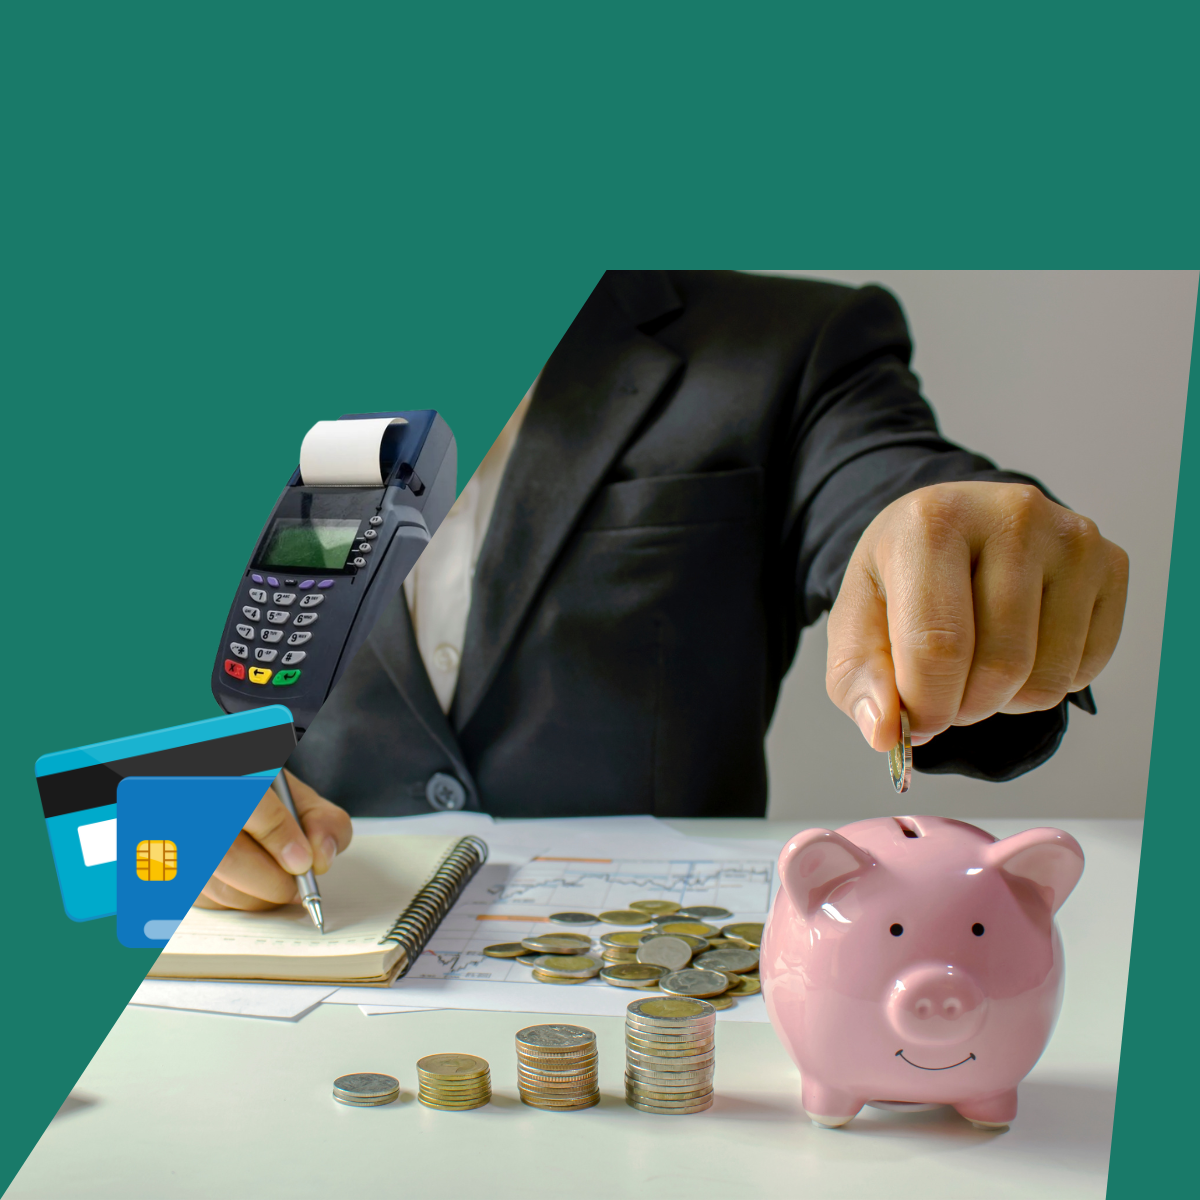
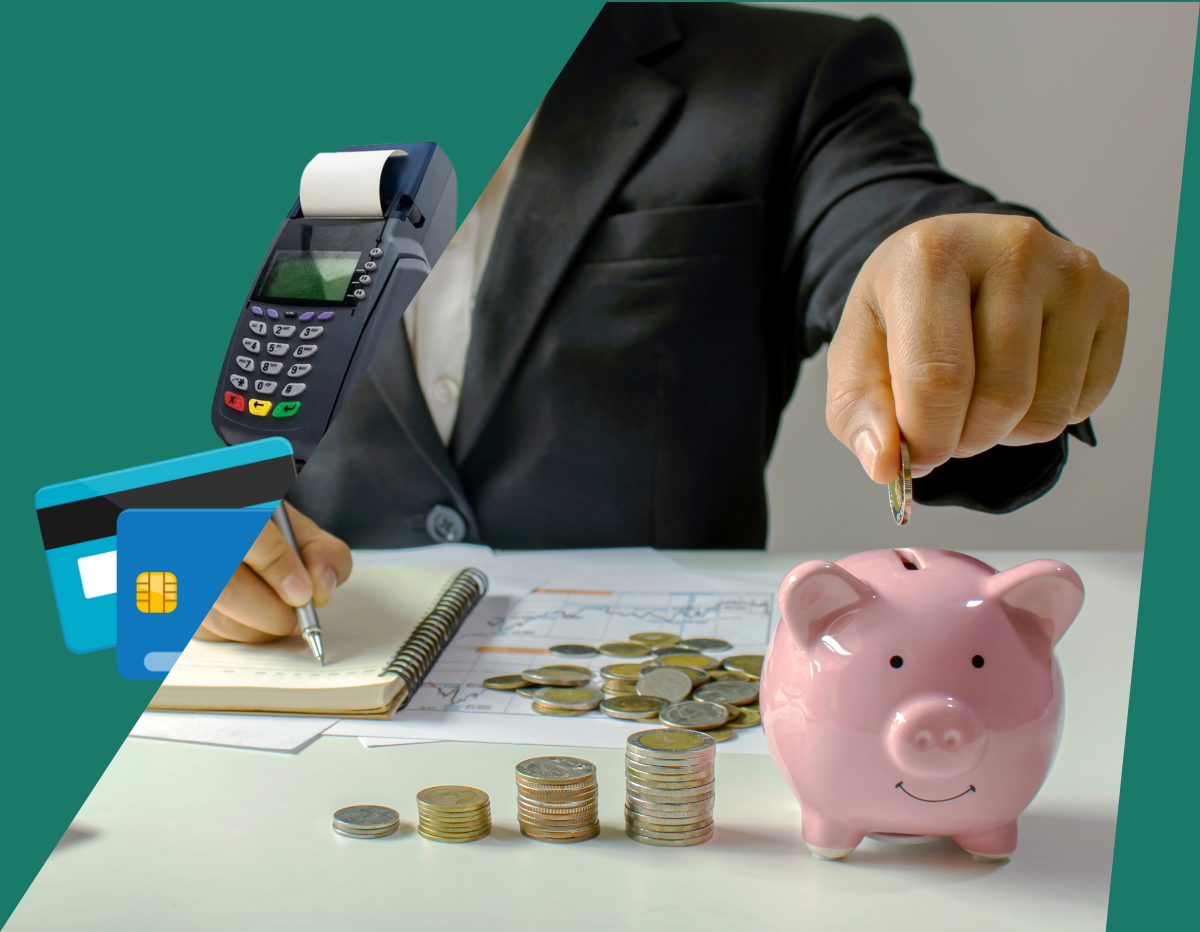
home add hero section

diff --git a/src/app/pages/home/home.css b/src/app/pages/home/home.css
@@ -1,0 +1,69 @@
+/* MOBILE */
+
+/* TABLET */
+@media screen and (min-width: 767px){
+    
+}
+
+/* DESKTOP */
+@media screen and (min-width: 1024px){
+    #hero{
+        background-color: var(--easybank-green);
+        display: flex;
+        flex-direction: row;
+    }
+    
+    /* HERO SECTION */
+    #hero div.hero-right, #hero div.hero-left{
+        width: 50%;
+        display: flex;
+        flex-direction: column;
+        justify-content: center;
+        align-items: center;
+    }
+    
+    /* HERO LEFT */
+    div.hero-left p.cta{
+        color: white;
+        font-size: 40px;
+        text-align: center;
+    }
+    
+    div.hero-left span.cta-sub{
+        color: white;
+        font-size: 20px;
+        font-weight: 400;
+        text-align: center;
+    }
+    
+    h1{
+        color: white;
+        font-size: 60px;
+        font-weight: 800;
+    }
+    
+    div.hero-left button.btn-createaccount{
+        border: 1px solid white;
+        border-radius: 10px;
+        padding: 0.5rem 1rem;
+    }
+    
+    div.hero-left button.btn-createaccount:hover{
+        background-color: var(--easybank-green);
+    }
+    
+    div.hero-left button.btn-createaccount a{
+        color: var(--easybank-green);
+        font-size: 16px;
+        text-decoration: none;
+    }
+    
+    div.hero-left button.btn-createaccount a:hover{
+        color: white;
+    }
+    
+    .hero-right img{
+        width: 95%;
+    }
+
+}    

diff --git a/src/app/pages/home/home.html b/src/app/pages/home/home.html
@@ -2,7 +2,43 @@
 <app-header></app-header>
 
 <!-- HOME -->
-<p>home works!</p>
+<main id="home">
+    <section id="hero">
+        <div class="hero-left">
+            <p class="cta">
+                <strong>
+                    Wanna have the tranquility <br> of a secure bank?
+                </strong>
+            </p>
+            <span class="cta-sub">
+                Don't wait more! We have the solution:
+            </span>
+            <h1>EASYBANK APP</h1>
+            <button class="btn-createaccount">
+                <a href="">
+                    Create account
+                </a>
+            </button>
+        </div>
+        <div class="hero-right">
+            <img src="/img/image-hero.png" alt="hero-image">
+        </div>
+    </section>
+
+    <section id="benefits">
+        
+    </section>
+
+    <section id="product">
+
+    </section>
+
+    <section id="contact">
+
+    </section>
+
+</main>
+
 
 <!-- FOOTER -->
 <app-footer></app-footer>
